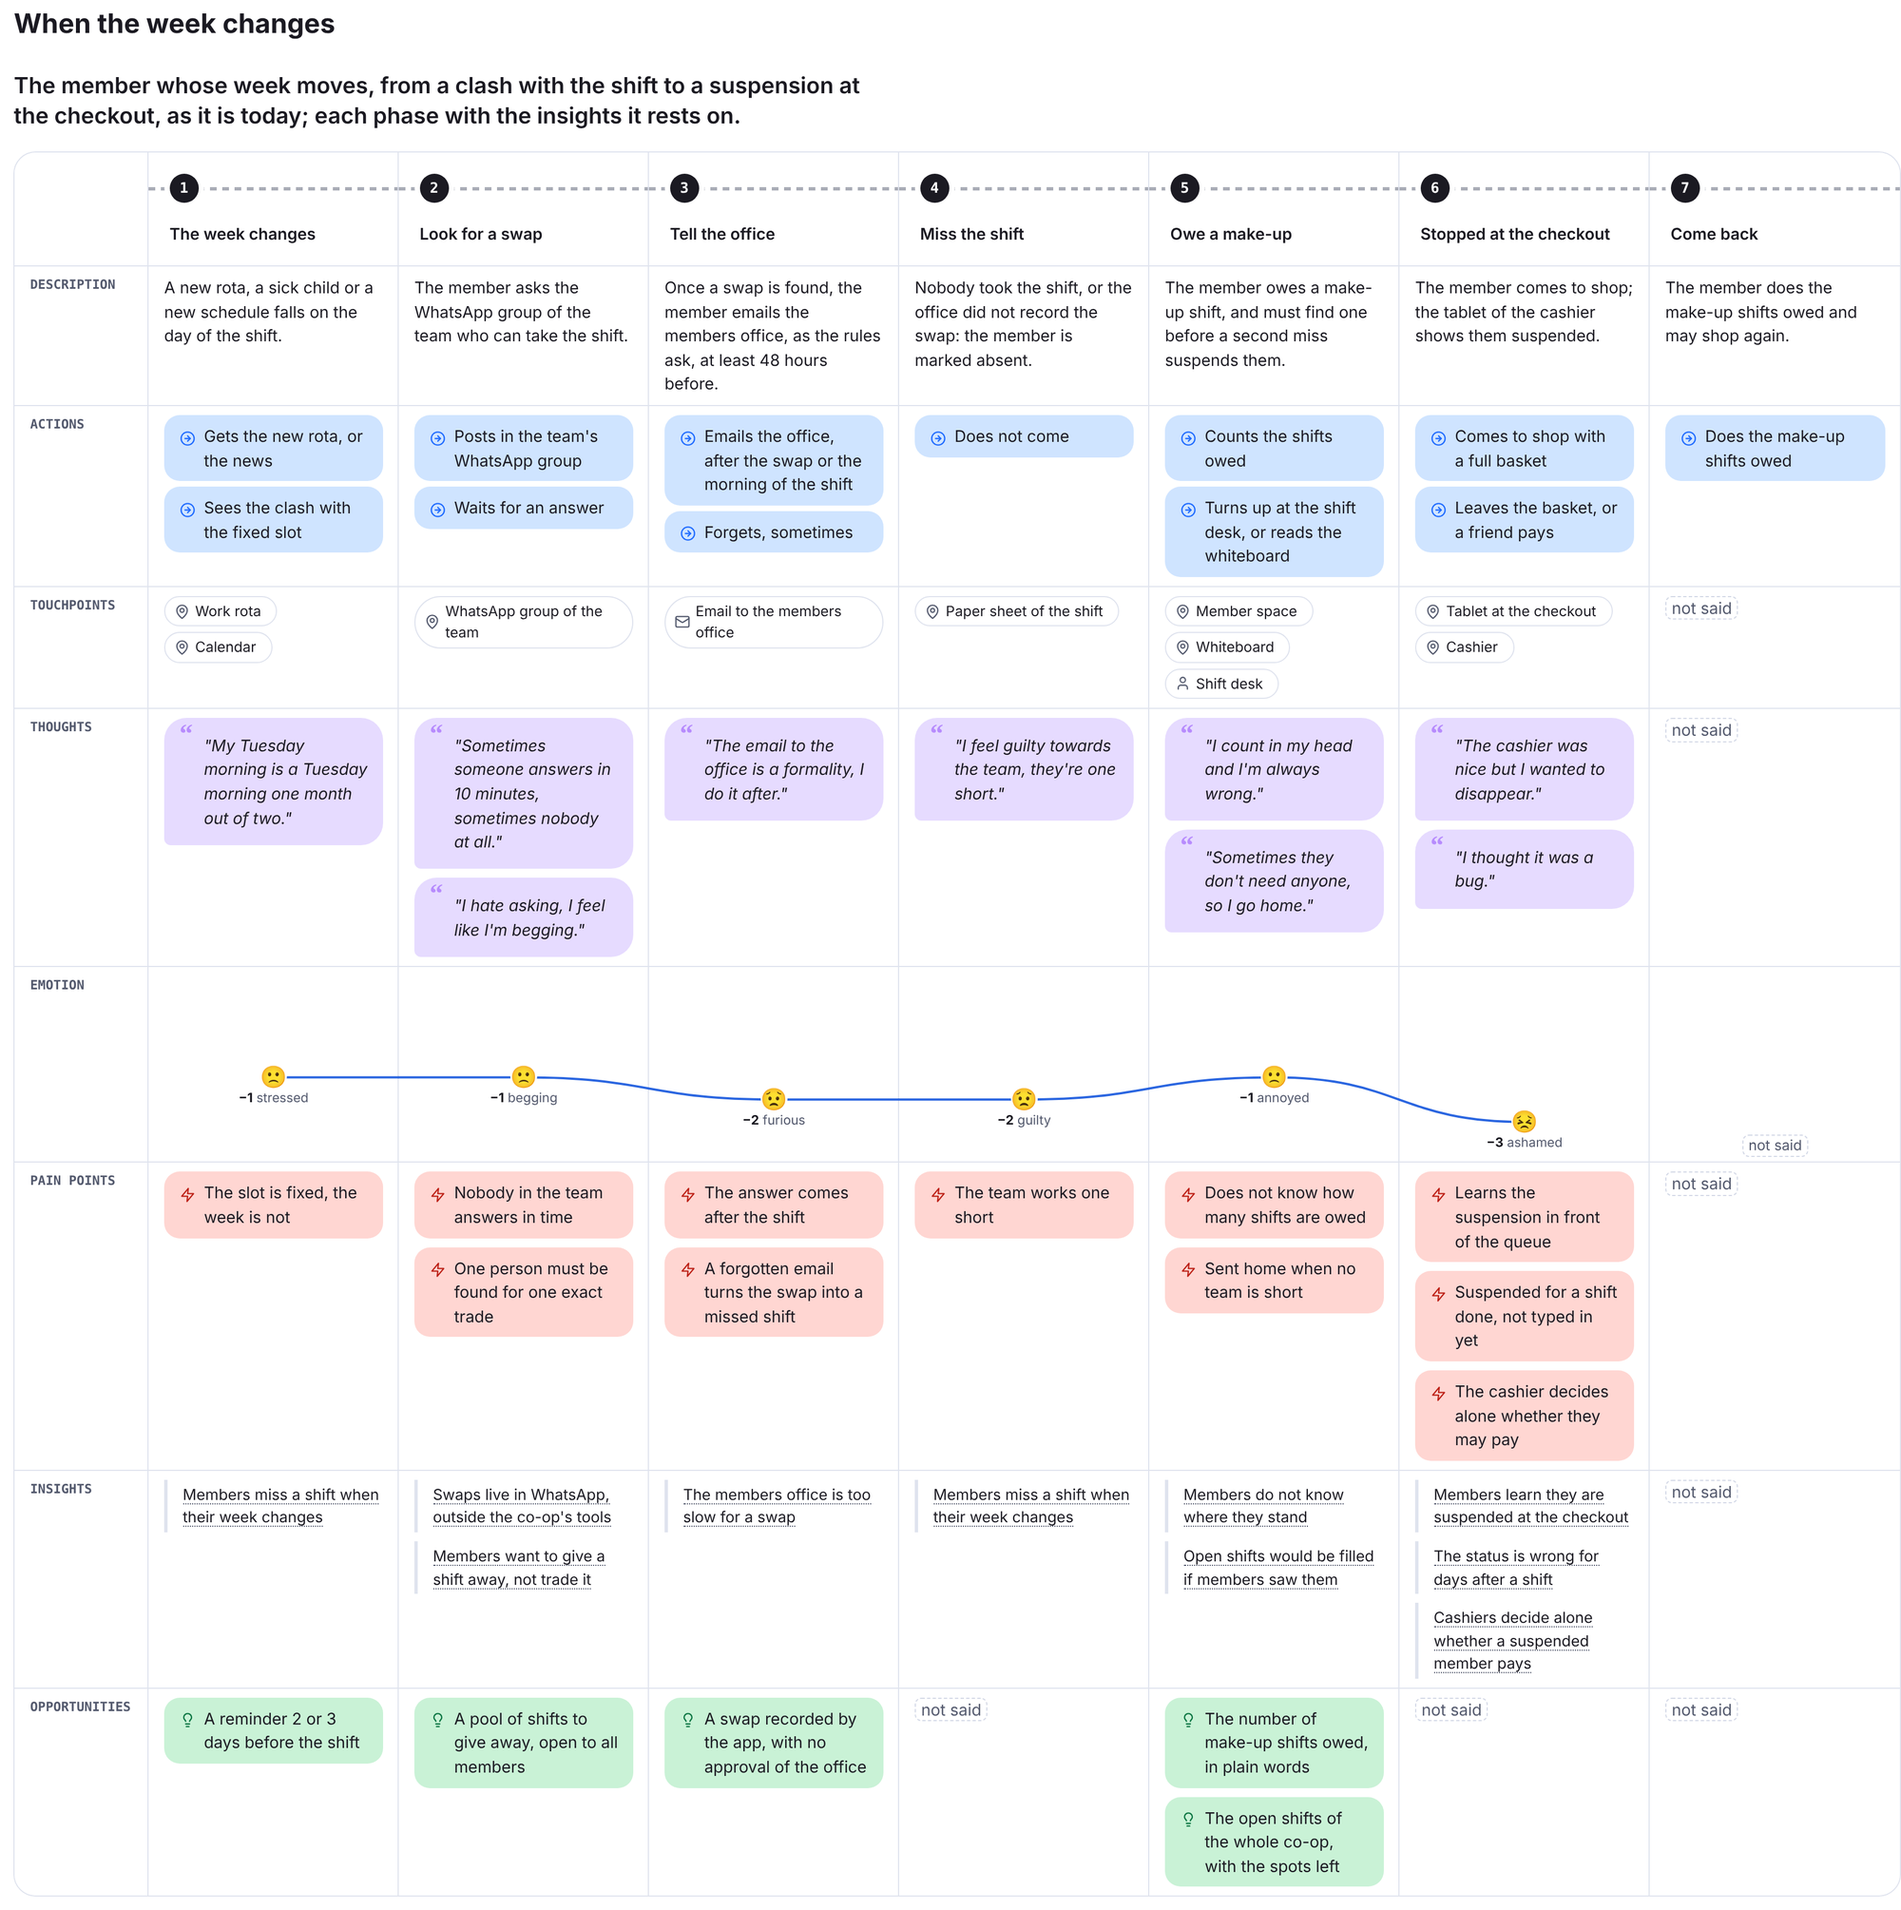
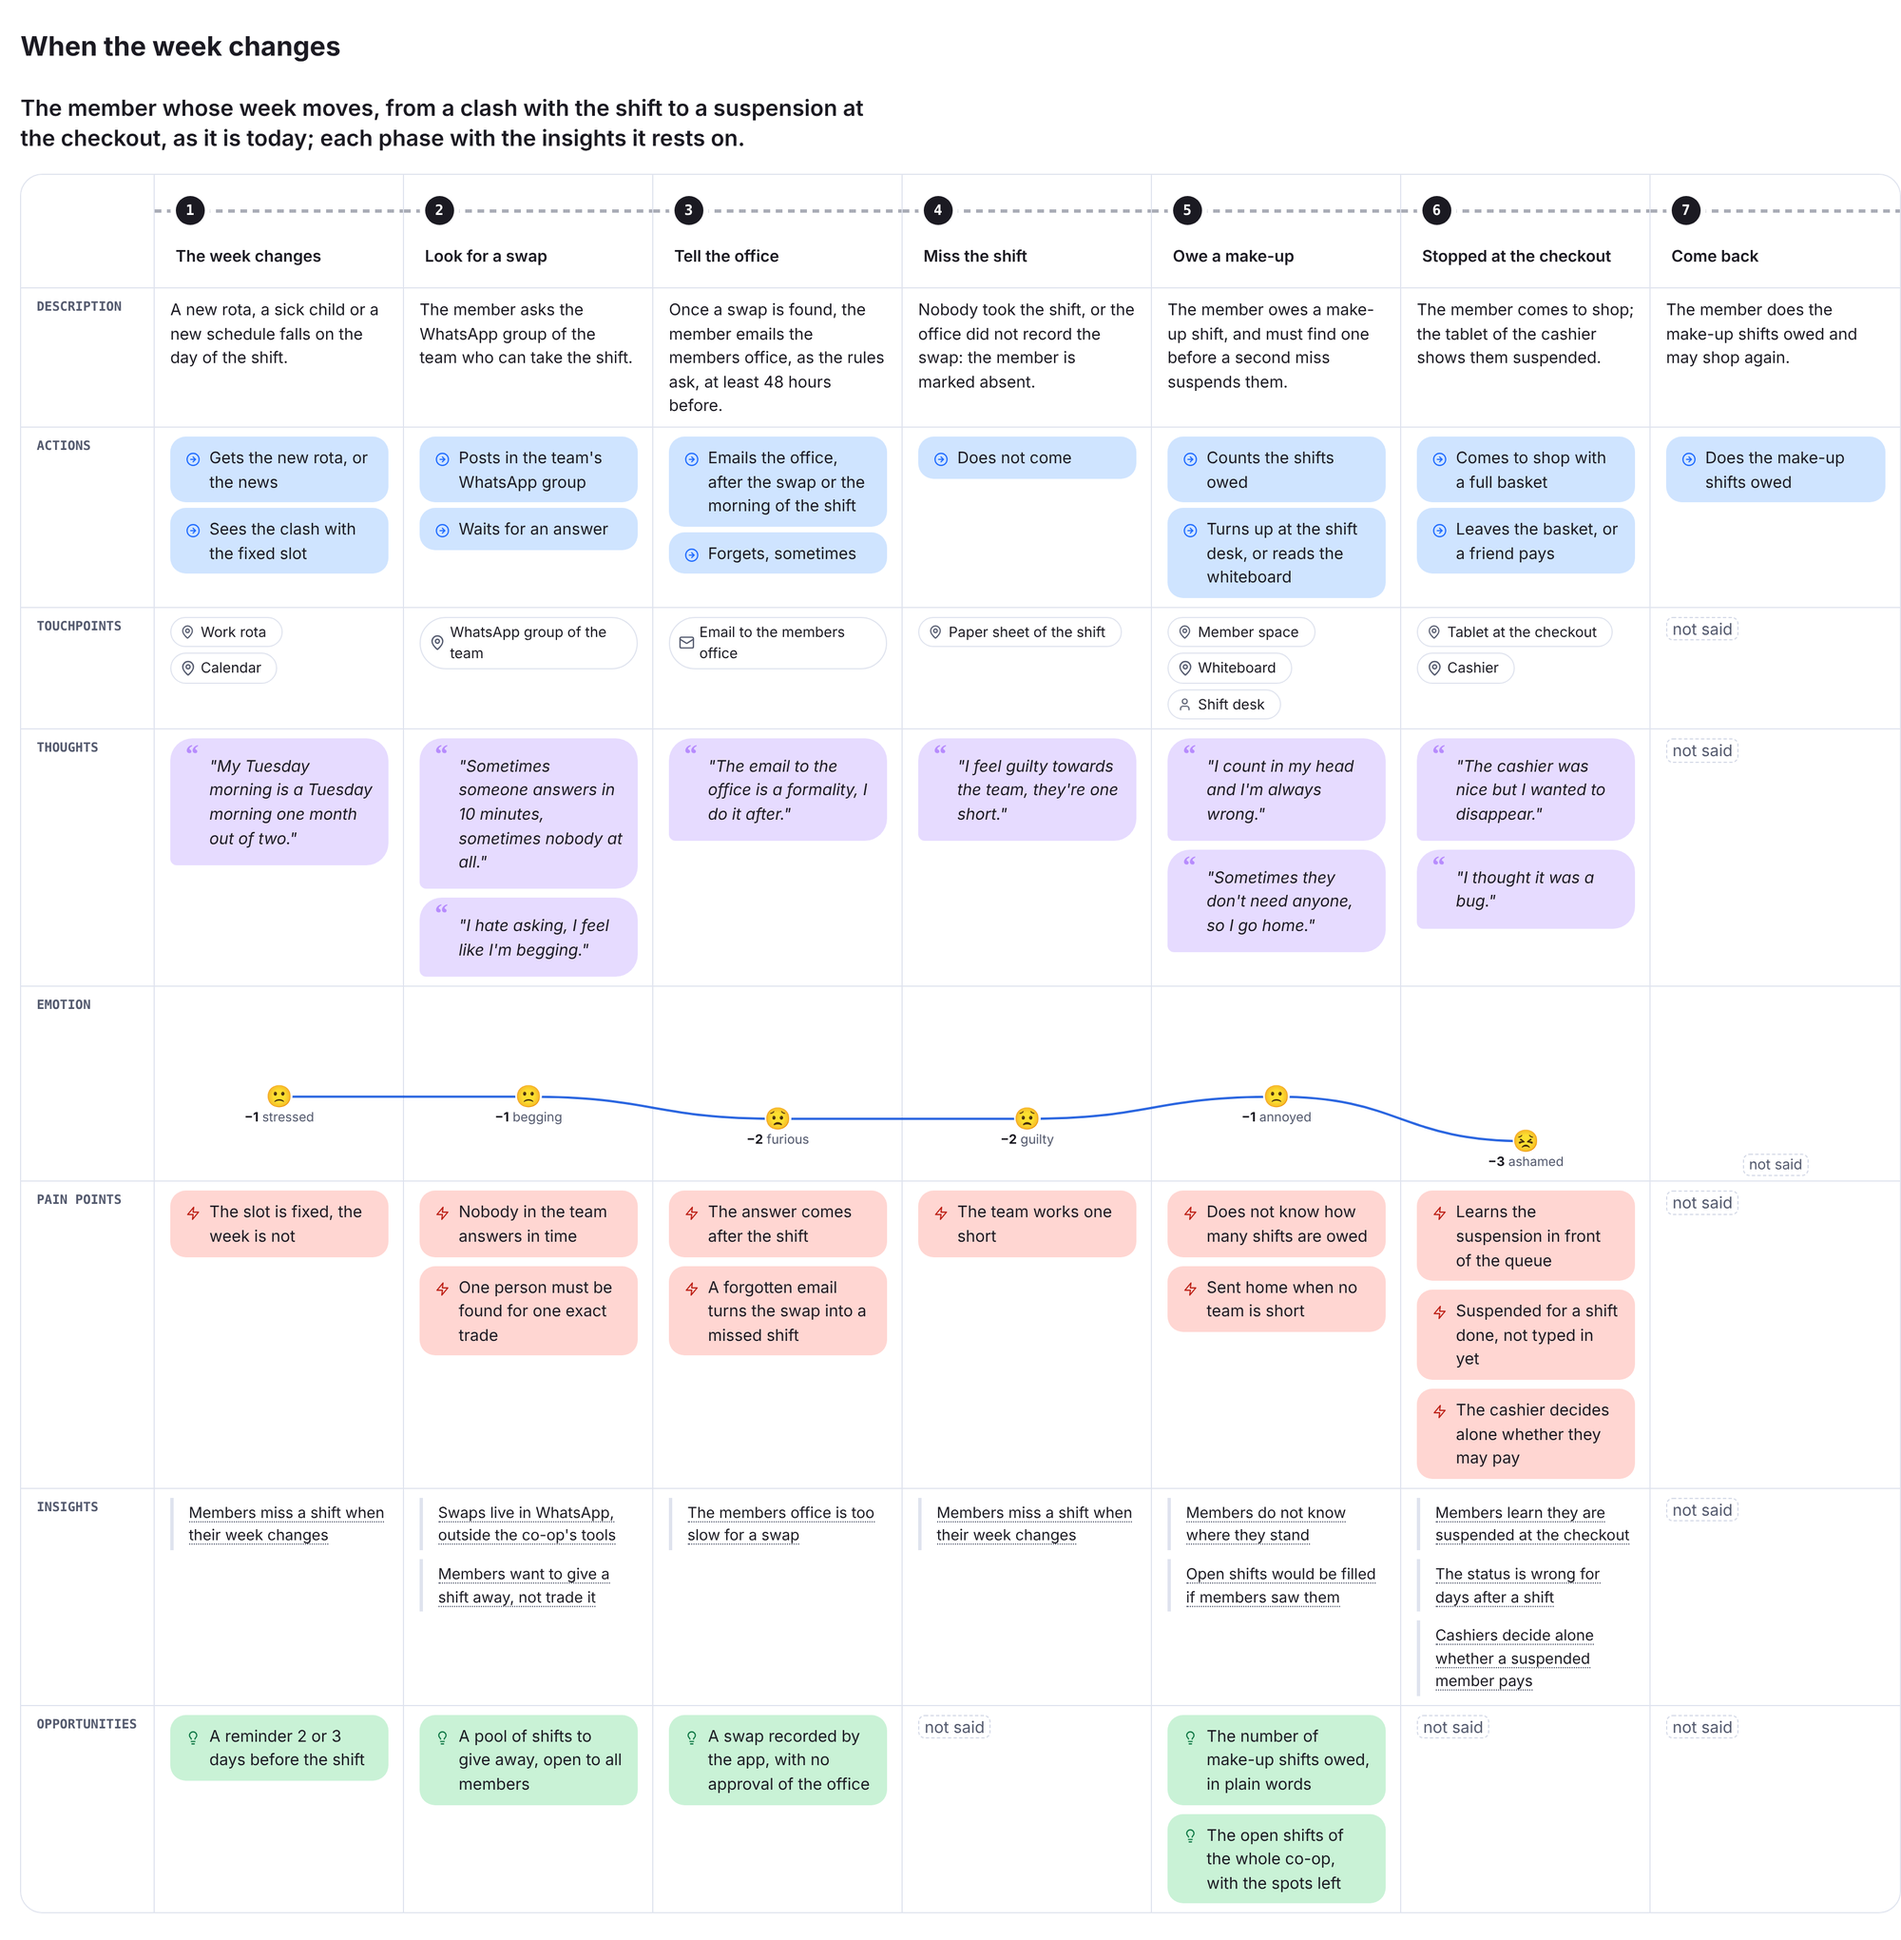
README: every picture in light and dark mode; the picture of the types transparent, any type you want
Claude-Session: https://claude.ai/code/session_012bagUhLNHD2VVKjrocWxq9

diff --git a/README.md b/README.md
@@ -8,7 +8,10 @@ Work with your AI visually, not through walls of text: it writes maps in Markdow
 
 [Get started](#get-started) · [Examples](#examples) · [Our maps](#our-maps) · [Documentation](#boring-documentation) · [Feedback](#feedback)
 
-![On the left, the Markdown of a journey map that your AI reads and writes: the phases of a member of a food co-op whose week changes; on the right, the same map drawn, as you see it](maps/images/markdown-to-map.png)
+<picture>
+  <source media="(prefers-color-scheme: dark)" srcset="maps/images/markdown-to-map-dark.png">
+  <img alt="On the left, the Markdown of a journey map that your AI reads and writes: the phases of a member of a food co-op whose week changes; on the right, the same map drawn, as you see it" src="maps/images/markdown-to-map.png">
+</picture>
 
 ## Get started
 
@@ -27,7 +30,10 @@ Show me the map.
 
 It writes the map in `maps/` and shows it to you, drawn. Click **Edit** to change it.
 
-![Nine maps drawn by maps.md, each with its type: a journey map, a roadmap, a data model, a system architecture, a story map, a user flow, an opportunity tree, a business model canvas and a service blueprint; 9 of the 28 types in the catalog](maps/images/maps-landscape.png)
+<picture>
+  <source media="(prefers-color-scheme: dark)" srcset="maps/images/maps-landscape-dark.png">
+  <img alt="Nine maps drawn by maps.md, each with its type: a journey map, a roadmap, a data model, a system architecture, a story map, a user flow, an opportunity tree, a business model canvas and a service blueprint; any type you want, from the catalog or your own" src="maps/images/maps-landscape.png">
+</picture>
 
 ## What it is for
 
@@ -49,15 +55,24 @@ Three maps from the examples in `showcase/`; a map can be written from another, 
 
 **UX: a journey map**, from research: what a person does, thinks and feels, phase by phase, where it goes wrong, and the insights each phase rests on. "Make a journey map from these insights."
 
-![A journey map: a member of a food co-op whose week changes, phase by phase, with the actions, the thoughts, the emotion, the pain points, the insights and the opportunities](maps/images/example-journey.png)
+<picture>
+  <source media="(prefers-color-scheme: dark)" srcset="maps/images/example-journey-dark.png">
+  <img alt="A journey map: a member of a food co-op whose week changes, phase by phase, with the actions, the thoughts, the emotion, the pain points, the insights and the opportunities" src="maps/images/example-journey.png">
+</picture>
 
 **Product: a roadmap**, from notes or a backlog: the initiatives in the order of time, each with where it stands, when and who carries it. "Make the roadmap of the next two quarters from these notes."
 
-![A roadmap: the initiatives of a marketplace to book sports courts on a timeline, each shipped, in progress, planned, undecided or cancelled](maps/images/example-roadmap.png)
+<picture>
+  <source media="(prefers-color-scheme: dark)" srcset="maps/images/example-roadmap-dark.png">
+  <img alt="A roadmap: the initiatives of a marketplace to book sports courts on a timeline, each shipped, in progress, planned, undecided or cancelled" src="maps/images/example-roadmap.png">
+</picture>
 
 **Technical: a system architecture**, from the code: the parts of the app, what each one runs on and how they talk. "Map the architecture of this codebase."
 
-![A system architecture: the parts of Spliit, an open-source app, and how they talk: the web app, its API, the domain library, PostgreSQL and the services around it](maps/images/example-architecture.png)
+<picture>
+  <source media="(prefers-color-scheme: dark)" srcset="maps/images/example-architecture-dark.png">
+  <img alt="A system architecture: the parts of Spliit, an open-source app, and how they talk: the web app, its API, the domain library, PostgreSQL and the services around it" src="maps/images/example-architecture.png">
+</picture>
 
 [See the examples drawn](https://florentbx.github.io/maps.md/showcase.html), with nothing to install: three projects, each with its own types, `1-courts/` (a product manager vibe-codes a marketplace), `2-spliit/` (an open-source app, mapped from its code) and `3-coop/` (the UX research of a food co-op).
 
